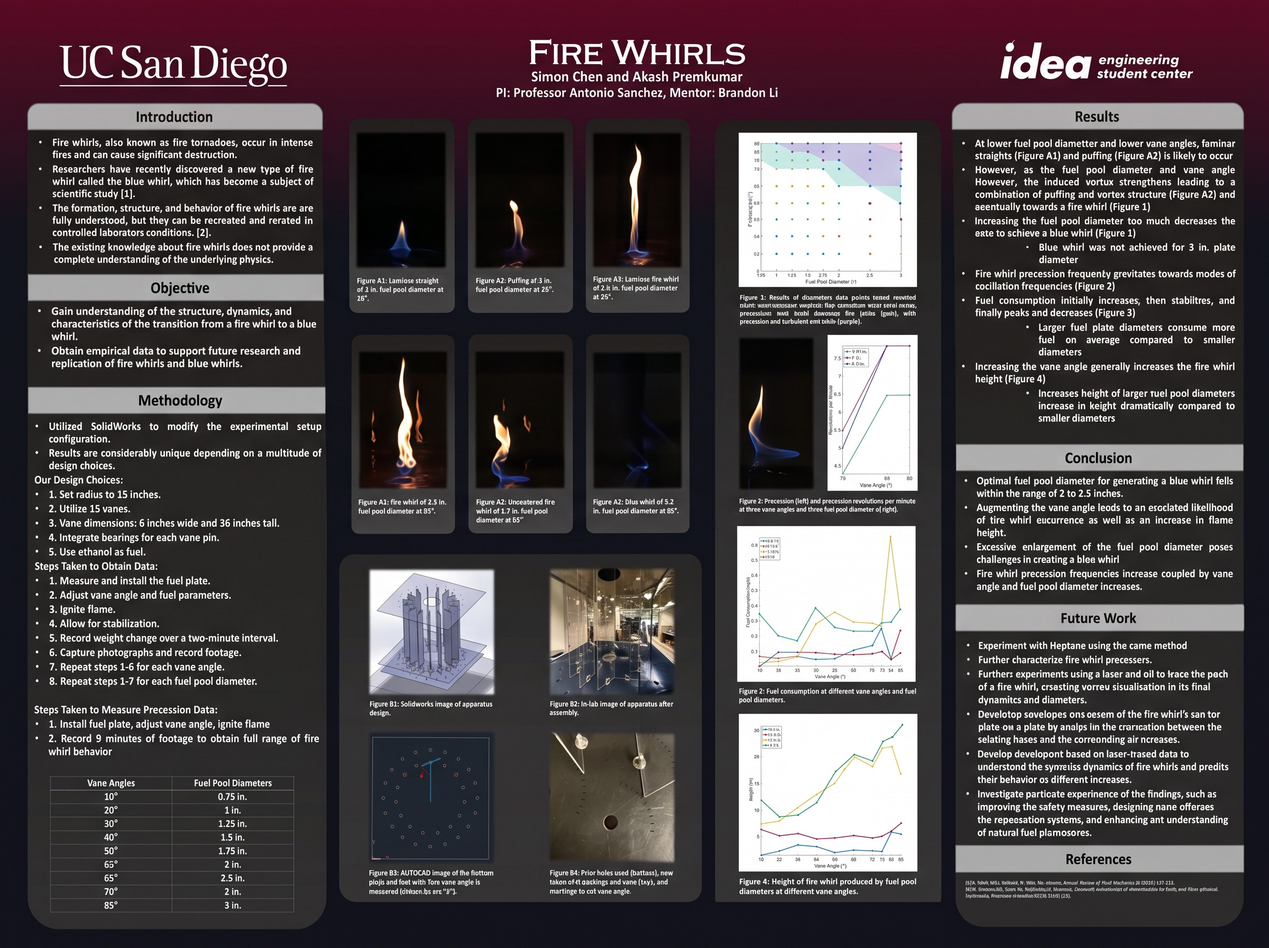
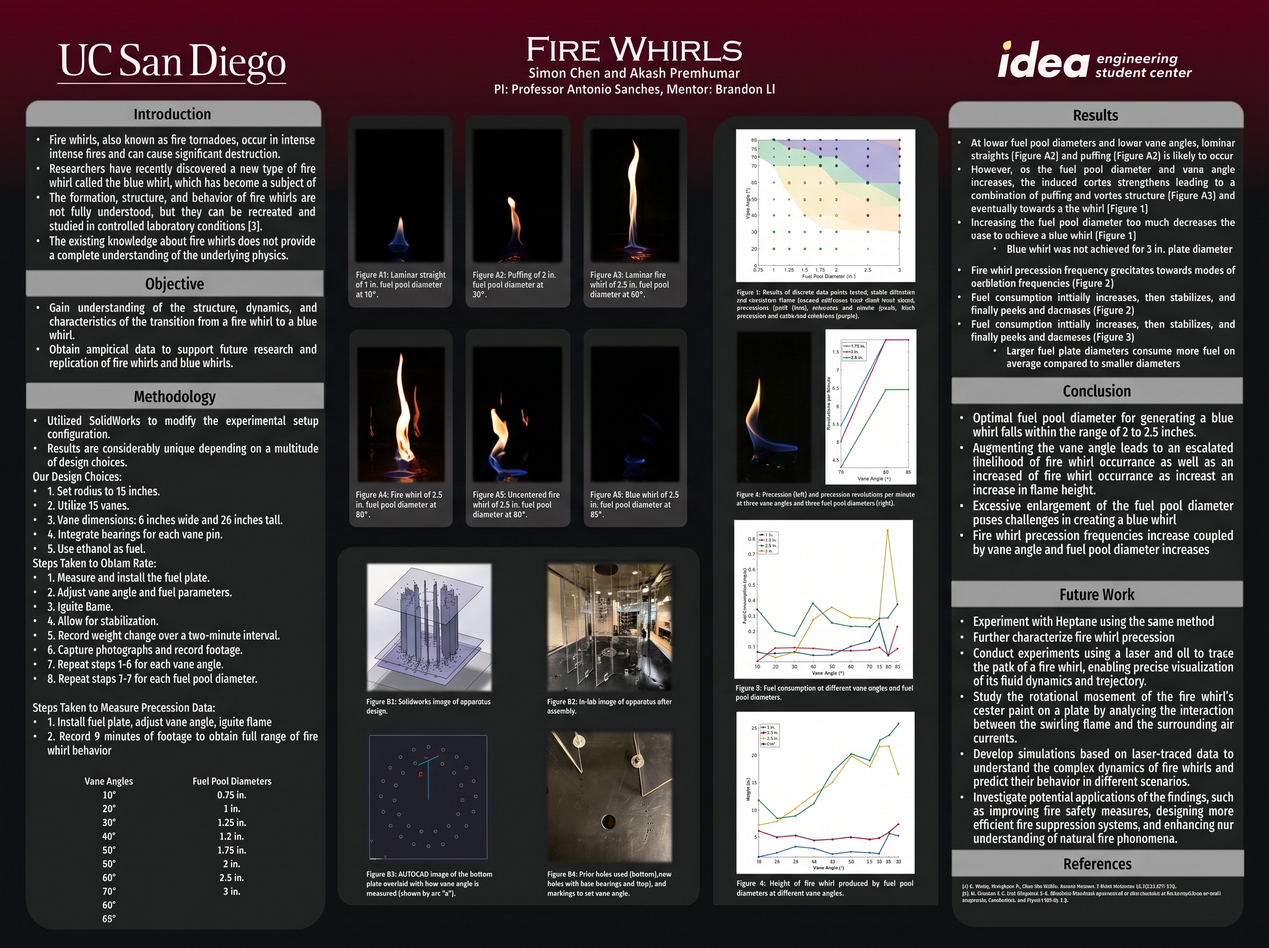
Replace the fire whirls poster and add project descriptions (#110)
Serve the new poster at the same URL, drop external-link arrows from research and project names, and show a plain detail after each project name.

diff --git a/assets/index-CAdkhrf6.js b/assets/index-CAdkhrf6.js
@@ -1,0 +1,38 @@
+(function(){let e=document.createElement(`link`).relList;if(e&&e.supports&&e.supports(`modulepreload`))return;for(let e of document.querySelectorAll(`link[rel="modulepreload"]`))n(e);new MutationObserver(e=>{for(let t of e)if(t.type===`childList`)for(let e of t.addedNodes)e.tagName===`LINK`&&e.rel===`modulepreload`&&n(e)}).observe(document,{childList:!0,subtree:!0});function t(e){let t={};return e.integrity&&(t.integrity=e.integrity),e.referrerPolicy&&(t.referrerPolicy=e.referrerPolicy),t.credentials=e.crossOrigin===`use-credentials`?`include`:e.crossOrigin===`anonymous`?`omit`:`same-origin`,t}function n(e){if(e.ep)return;e.ep=!0;let n=t(e);fetch(e.href,n)}})();var e=`/research/agent-native-ui/paper.pdf`,t=`Akash Premkumar`,n=`Akash Premkumar. Tesla vehicle service and vehicle engineering, Raytheon avionics networking, NASA L’SPACE, and the Multiscale Flow Physics Lab at UC San Diego.`,r=`https://akashnaren.github.io/`,i=`#fffff8`,a=`Work`,o=[[{href:`https://www.tesla.com/`,label:`Tesla`},` — `,{href:`https://service.tesla.com/en-US/`,label:`Vehicle Service`}],[{href:`https://www.tesla.com/`,label:`Tesla`},` — `,{href:`https://www.tesla.com/AI`,label:`Vehicle Engineering`}],[{href:`https://www.rtx.com/raytheon`,label:`Raytheon`},` — `,{href:`https://www.aim-online.com/products-overview/tutorials/afdx-arinc664p7-tutorial/`,label:`Avionics Networking Test Suite`}],[{href:`https://www.lspace.asu.edu/`,label:`NASA L’SPACE`},` — `,{href:`https://drive.google.com/drive/folders/1vi1vVKHAKptMqXB0_mmw7QkfCC6d8Wc_?usp=sharing`,label:`Proposals, Preliminary Design Review`}]],s=`Profiles`,c=`Mail`,l=`Research`,u=`Projects`,d=[[{href:`https://asanchez.ucsd.edu/`,label:`Multiscale Flow Physics Lab, UC San Diego`},` — `,{href:`/fire-whirls-poster.jpg`,label:`Research`}]],f=[{href:`https://github.com/akashnaren`,label:`GitHub`,mark:`/marks/github.svg`},{href:`https://www.linkedin.com/in/akash-premkumar-39826b1b7/`,label:`LinkedIn`,mark:`/marks/linkedin.svg`},{href:`https://x.com/akashpn`,label:`X`,mark:`/marks/x.svg`},{href:`https://cursor.com/@akashpn`,label:`Cursor`,mark:`/marks/cursor.svg`},{href:`https://huggingface.co/akashnaren`,label:`Hugging Face`,mark:`/marks/huggingface.svg`},{href:`https://www.kaggle.com/akashpnaren`,label:`Kaggle`,mark:`/marks/kaggle.svg`}],p=`Research`,m=`/research/pi-0.2-high/paper.pdf`,h=[],g=[[{href:`https://meetlavalamp.com`,label:`Lavalamp`},` — Network Intelligence Platform`],[{href:`https://waters-join-und-kick.trycloudflare.com/`,label:`OpenPi`},` — Raspberry Pi Distributed Inference`],[{href:`/research/agent-native-ui/paper.pdf`,label:`Agent-Native UI`},` — Interfaces for Computer-Use Agents`]],_=[`Managed by `,{href:`https://x.ai/bot`,label:`Grok Bot`}],v={address:`akashnaren@gmail.com`,href:`mailto:akashnaren@gmail.com`,label:`email`},y={address:`akashnaren@mail.grokbot.com`,href:`mailto:akashnaren@mail.grokbot.com`,label:`bots' inbox`,tip:`the agents' inbox — not his personal Gmail`};function b(e){return typeof e==`object`}function x(e){let t=e.split(/[?#]/,1)[0]??``;return/\/research\/?$/.test(t)||/\/research\/index\.html$/.test(t)}function S(e){let t=e.split(/[?#]/,1)[0]??``;return/\/research\/pi-0\.2-high\/?$/.test(t)||/\/research\/pi-0\.2-high\/index\.html$/.test(t)}function C(e){let t=e.split(/[?#]/,1)[0]??``;return/\/research\/agent-native-ui\/?$/.test(t)||/\/research\/agent-native-ui\/index\.html$/.test(t)}var w={title:t,description:n,url:r,themeColor:i};`${p}${t}`;function T(e){return e.replaceAll(`&`,`&amp;`).replaceAll(`<`,`&lt;`).replaceAll(`>`,`&gt;`).replaceAll(`"`,`&quot;`)}function E(){return`<svg class="ext" viewBox="0 0 12 12" width="12" height="12" aria-hidden="true" focusable="false"><path d="M3.4 2.4h6.2v6.2M9.3 2.7 2.7 9.3" fill="none" stroke="currentColor" stroke-width="1.15"/></svg>`}function D(e){let t=e.split(/[?#]/,1)[0]??``;return t===`/research`||t===`/research/`}function O(e){return e.startsWith(`#`)||D(e)}function k(e){let t=e.split(/\s+/).filter(Boolean);for(let e of[`noopener`,`noreferrer`])t.includes(e)||t.push(e);return t.join(` `)}function A(e,t=``){return O(e)?t?` rel="${T(t)}"`:``:` target="_blank" rel="${T(k(t))}"`}function j(e){if(b(e)){let t=D(e.href)?E():``;return`<a href="${T(e.href)}"${A(e.href)}>${T(e.label)}${t}</a>`}return T(e)}function M(e){return e.map(e=>b(e)?e.label:e).join(``)}function N(e){if(e.length===1&&!b(e[0])){let t=e[0],n=t.indexOf(` — `);if(n>0)return{label:[t.slice(0,n)],detail:[t.slice(n)]}}let[t,...n]=e;return t&&b(t)?{label:[t],detail:n}:{label:[...e],detail:[]}}function P(e){return b(e)?H(e.href,e.label):T(e)}function F(e,t){let n=` title="${T(M(e))}"`;if(!t)return`<li${n}>${e.map(j).join(``)}</li>`;let{label:r,detail:i}=N(e),a=i.length?`<span class="entry-detail">${i.map(P).join(``)}</span>`:``;return`<li${n}><span class="entry-name">${r.map(j).join(``)}</span>${a}</li>`}function I(e,t,n,r=!1){let i=n.map(e=>F(e,r)).join(`
+          `),a=r?`entries ledger`:`entries`;return`<section class="section" aria-labelledby="${T(e)}">
+        <h2 id="${T(e)}">${T(t)}</h2>
+        <ul class="${a}">
+          ${i}
+        </ul>
+      </section>`}function L(){return`<svg class="grok-bot-mark" viewBox="0 0 32 32" width="15" height="15" aria-hidden="true" focusable="false"><circle cx="16" cy="16" r="14.5" fill="#ff6b00"/><rect x="8.1" y="15.7" width="2.4" height="6" rx="1.2" fill="#fff" transform="rotate(-26 9.3 18.7)"/><rect x="12.5" y="17" width="2.4" height="6" rx="1.2" fill="#fff" transform="rotate(-26 13.7 20)"/></svg>`}function R(e,t=``){return`<p class="${t?`managed ${t}`:`managed`}">${L()}<span class="managed-copy">${e.map(j).join(``)}</span></p>`}function z(e){let t=e.mark?`<img class="contact-mark" src="${T(e.mark)}" alt="" width="14" height="14" decoding="async" />`:``;return`<a class="contact-link" href="${T(e.href)}"${A(e.href)}>${t}<span>${T(e.label)}</span></a>`}function B(){let e=f.map(e=>`<li>${z(e)}</li>`).join(``);return`<section class="section" aria-labelledby="profiles">
+        <h2 id="profiles">${T(s)}</h2>
+        <ul class="profiles">${e}</ul>
+      </section>`}function V(){return`<section class="section" aria-labelledby="mail">
+        <h2 id="mail">${T(c)}</h2>
+        <ul class="mail-row">
+          <li><a class="mail-address" href="${T(v.href)}"${A(v.href)}>${T(v.address)}</a></li>
+          <li><span class="mail-kind">${T(y.label)}</span><a class="mail-address" href="${T(y.href)}"${A(y.href)} title="${T(y.tip)}">${T(y.address)}</a></li>
+        </ul>
+      </section>`}function H(e,t){let n=/^https?:\/\//i.test(e),r=n?`noopener noreferrer`:``,i=n||/\.(?:pdf|jpe?g)(?:$|[?#])/i.test(e)?E():``;return`<a href="${T(e)}"${A(e,r)}>${T(t)}${i}</a>`}function U(e){let t=e.href?H(e.href,e.title):`<span class="entry-name">${T(e.title)}</span>`,n=(e.links??[]).map(e=>H(e.href,e.label)).join(``);return`<li data-entry="${T(e.id)}">${t}${n}</li>`}function W(e,t,n){return`<section class="section" aria-labelledby="${T(e)}">
+        <h2 id="${T(e)}">${T(t)}</h2>
+        <ul class="entries">
+          ${n}
+        </ul>
+      </section>`}function G(){return W(`research`,l,[...d.map(e=>{let t=e.findIndex(b);if(t<0)return F(e,!1);let n=e[t];if(!b(n))return F(e,!1);let r=e.slice(t+1),i=r.length?`<span class="entry-detail">${r.map(P).join(``)}</span>`:``;return`<li>${j(n)}${i}</li>`}),...h.map(U)].join(`
+          `))}function K(){return I(`projects`,u,g,!0)}function q(){return`<div class="page home" id="holder">
+    <div class="layout">
+      <main class="stage">
+        <header>
+          <h1>${T(t)}</h1>
+        </header>
+        ${I(`work`,a,o,!0)}
+        ${G()}
+        ${K()}
+        ${B()}
+        ${V()}
+      </main>
+      <footer class="foot home-foot">
+        ${R(_)}
+      </footer>
+    </div>
+  </div>`}function J(e){document.title=e.title;let t=[[`meta[name="description"]`,e.description],[`meta[property="og:title"]`,e.title],[`meta[property="og:description"]`,e.description],[`meta[property="og:url"]`,e.url],[`meta[name="twitter:title"]`,e.title],[`meta[name="twitter:description"]`,e.description],[`meta[name="theme-color"]`,e.themeColor??`#fffff8`]];for(let[e,n]of t)document.querySelector(e)?.setAttribute(`content`,n);document.querySelector(`link[rel="canonical"]`)?.setAttribute(`href`,e.url);let n=document.querySelector(`meta[name="robots"]`);if(e.robots){let t=n??document.createElement(`meta`);t.setAttribute(`name`,`robots`),t.setAttribute(`content`,e.robots),n||document.head.appendChild(t);return}n?.remove()}function Y(){if(C(location.pathname)){location.replace(e);return}if(S(location.pathname)){location.replace(m);return}if(x(location.pathname)){location.replace(`/#research`);return}let t=document.getElementById(`holder`);t&&(t.classList.contains(`home`)||(t.outerHTML=q()),J(w))}Y();

diff --git a/index.html b/index.html
@@ -21,7 +21,7 @@
     <link rel="icon" href="/favicon-32.png" type="image/png" sizes="32x32" />
     <link rel="apple-touch-icon" href="/favicon.svg" />
     <link rel="manifest" href="/site.webmanifest" />
-    <script type="module" crossorigin src="/assets/index-ButS5j2j.js"></script>
+    <script type="module" crossorigin src="/assets/index-CAdkhrf6.js"></script>
     <link rel="stylesheet" crossorigin href="/assets/index-DxPaDc3s.css">
   </head>
   <body>
@@ -43,15 +43,15 @@
         <section class="section" aria-labelledby="research">
         <h2 id="research">Research</h2>
         <ul class="entries">
-          <li><a href="https://asanchez.ucsd.edu/" target="_blank" rel="noopener noreferrer">Multiscale Flow Physics Lab, UC San Diego<svg class="ext" viewBox="0 0 12 12" width="12" height="12" aria-hidden="true" focusable="false"><path d="M3.4 2.4h6.2v6.2M9.3 2.7 2.7 9.3" fill="none" stroke="currentColor" stroke-width="1.15"/></svg></a><span class="entry-detail"> — <a href="/fire-whirls-poster.jpg" target="_blank" rel="noopener noreferrer">Research<svg class="ext" viewBox="0 0 12 12" width="12" height="12" aria-hidden="true" focusable="false"><path d="M3.4 2.4h6.2v6.2M9.3 2.7 2.7 9.3" fill="none" stroke="currentColor" stroke-width="1.15"/></svg></a></span></li>
+          <li><a href="https://asanchez.ucsd.edu/" target="_blank" rel="noopener noreferrer">Multiscale Flow Physics Lab, UC San Diego</a><span class="entry-detail"> — <a href="/fire-whirls-poster.jpg" target="_blank" rel="noopener noreferrer">Research<svg class="ext" viewBox="0 0 12 12" width="12" height="12" aria-hidden="true" focusable="false"><path d="M3.4 2.4h6.2v6.2M9.3 2.7 2.7 9.3" fill="none" stroke="currentColor" stroke-width="1.15"/></svg></a></span></li>
         </ul>
       </section>
         <section class="section" aria-labelledby="projects">
         <h2 id="projects">Projects</h2>
-        <ul class="entries">
-          <li><a href="https://meetlavalamp.com" target="_blank" rel="noopener noreferrer">Lavalamp<svg class="ext" viewBox="0 0 12 12" width="12" height="12" aria-hidden="true" focusable="false"><path d="M3.4 2.4h6.2v6.2M9.3 2.7 2.7 9.3" fill="none" stroke="currentColor" stroke-width="1.15"/></svg></a></li>
-          <li><a href="https://waters-join-und-kick.trycloudflare.com/" target="_blank" rel="noopener noreferrer">OpenPi<svg class="ext" viewBox="0 0 12 12" width="12" height="12" aria-hidden="true" focusable="false"><path d="M3.4 2.4h6.2v6.2M9.3 2.7 2.7 9.3" fill="none" stroke="currentColor" stroke-width="1.15"/></svg></a></li>
-          <li><a href="/research/agent-native-ui/paper.pdf" target="_blank" rel="noopener noreferrer">Agent-Native UI<svg class="ext" viewBox="0 0 12 12" width="12" height="12" aria-hidden="true" focusable="false"><path d="M3.4 2.4h6.2v6.2M9.3 2.7 2.7 9.3" fill="none" stroke="currentColor" stroke-width="1.15"/></svg></a></li>
+        <ul class="entries ledger">
+          <li title="Lavalamp — Network Intelligence Platform"><span class="entry-name"><a href="https://meetlavalamp.com" target="_blank" rel="noopener noreferrer">Lavalamp</a></span><span class="entry-detail"> — Network Intelligence Platform</span></li>
+          <li title="OpenPi — Raspberry Pi Distributed Inference"><span class="entry-name"><a href="https://waters-join-und-kick.trycloudflare.com/" target="_blank" rel="noopener noreferrer">OpenPi</a></span><span class="entry-detail"> — Raspberry Pi Distributed Inference</span></li>
+          <li title="Agent-Native UI — Interfaces for Computer-Use Agents"><span class="entry-name"><a href="/research/agent-native-ui/paper.pdf" target="_blank" rel="noopener noreferrer">Agent-Native UI</a></span><span class="entry-detail"> — Interfaces for Computer-Use Agents</span></li>
         </ul>
       </section>
         <section class="section" aria-labelledby="profiles">

diff --git a/src/content.ts b/src/content.ts
@@ -124,19 +124,19 @@ export type ListedWork = {
 
 export const researchEntries: readonly ListedWork[] = [];
 
-export const projectLinks: readonly Link[] = [
-  {
-    href: "https://meetlavalamp.com",
-    label: "Lavalamp",
-  },
-  {
-    href: "https://waters-join-und-kick.trycloudflare.com/",
-    label: "OpenPi",
-  },
-  {
-    href: "/research/agent-native-ui/paper.pdf",
-    label: "Agent-Native UI",
-  },
+export const projectLinks: readonly Paragraph[] = [
+  [
+    { href: "https://meetlavalamp.com", label: "Lavalamp" },
+    " — Network Intelligence Platform",
+  ],
+  [
+    { href: "https://waters-join-und-kick.trycloudflare.com/", label: "OpenPi" },
+    " — Raspberry Pi Distributed Inference",
+  ],
+  [
+    { href: "/research/agent-native-ui/paper.pdf", label: "Agent-Native UI" },
+    " — Interfaces for Computer-Use Agents",
+  ],
 ];
 
 /** Small footer cue on the landing page. */

diff --git a/src/render.ts b/src/render.ts
@@ -227,15 +227,14 @@ function renderResearchSection(): string {
     const detailHtml = detail.length
       ? `<span class="entry-detail">${detail.map(renderDetailPhrase).join("")}</span>`
       : "";
-    return `<li>${renderDocLink(link.href, link.label)}${detailHtml}</li>`;
+    return `<li>${renderPhrase(link)}${detailHtml}</li>`;
   });
   const items = [...lab, ...researchEntries.map(renderListedWork)].join("\n          ");
   return renderNamedList("research", researchHeading, items);
 }
 
 function renderProjectsSection(): string {
-  const items = projectLinks.map((link) => `<li>${renderDocLink(link.href, link.label)}</li>`).join("\n          ");
-  return renderNamedList("projects", projectsHeading, items);
+  return renderBand("projects", projectsHeading, projectLinks, true);
 }
 
 export function renderSite(): string {

diff --git a/404.html b/404.html
@@ -21,7 +21,7 @@
     <link rel="icon" href="/favicon-32.png" type="image/png" sizes="32x32" />
     <link rel="apple-touch-icon" href="/favicon.svg" />
     <link rel="manifest" href="/site.webmanifest" />
-    <script type="module" crossorigin src="/assets/index-ButS5j2j.js"></script>
+    <script type="module" crossorigin src="/assets/index-CAdkhrf6.js"></script>
     <link rel="stylesheet" crossorigin href="/assets/index-DxPaDc3s.css">
   </head>
   <body>
